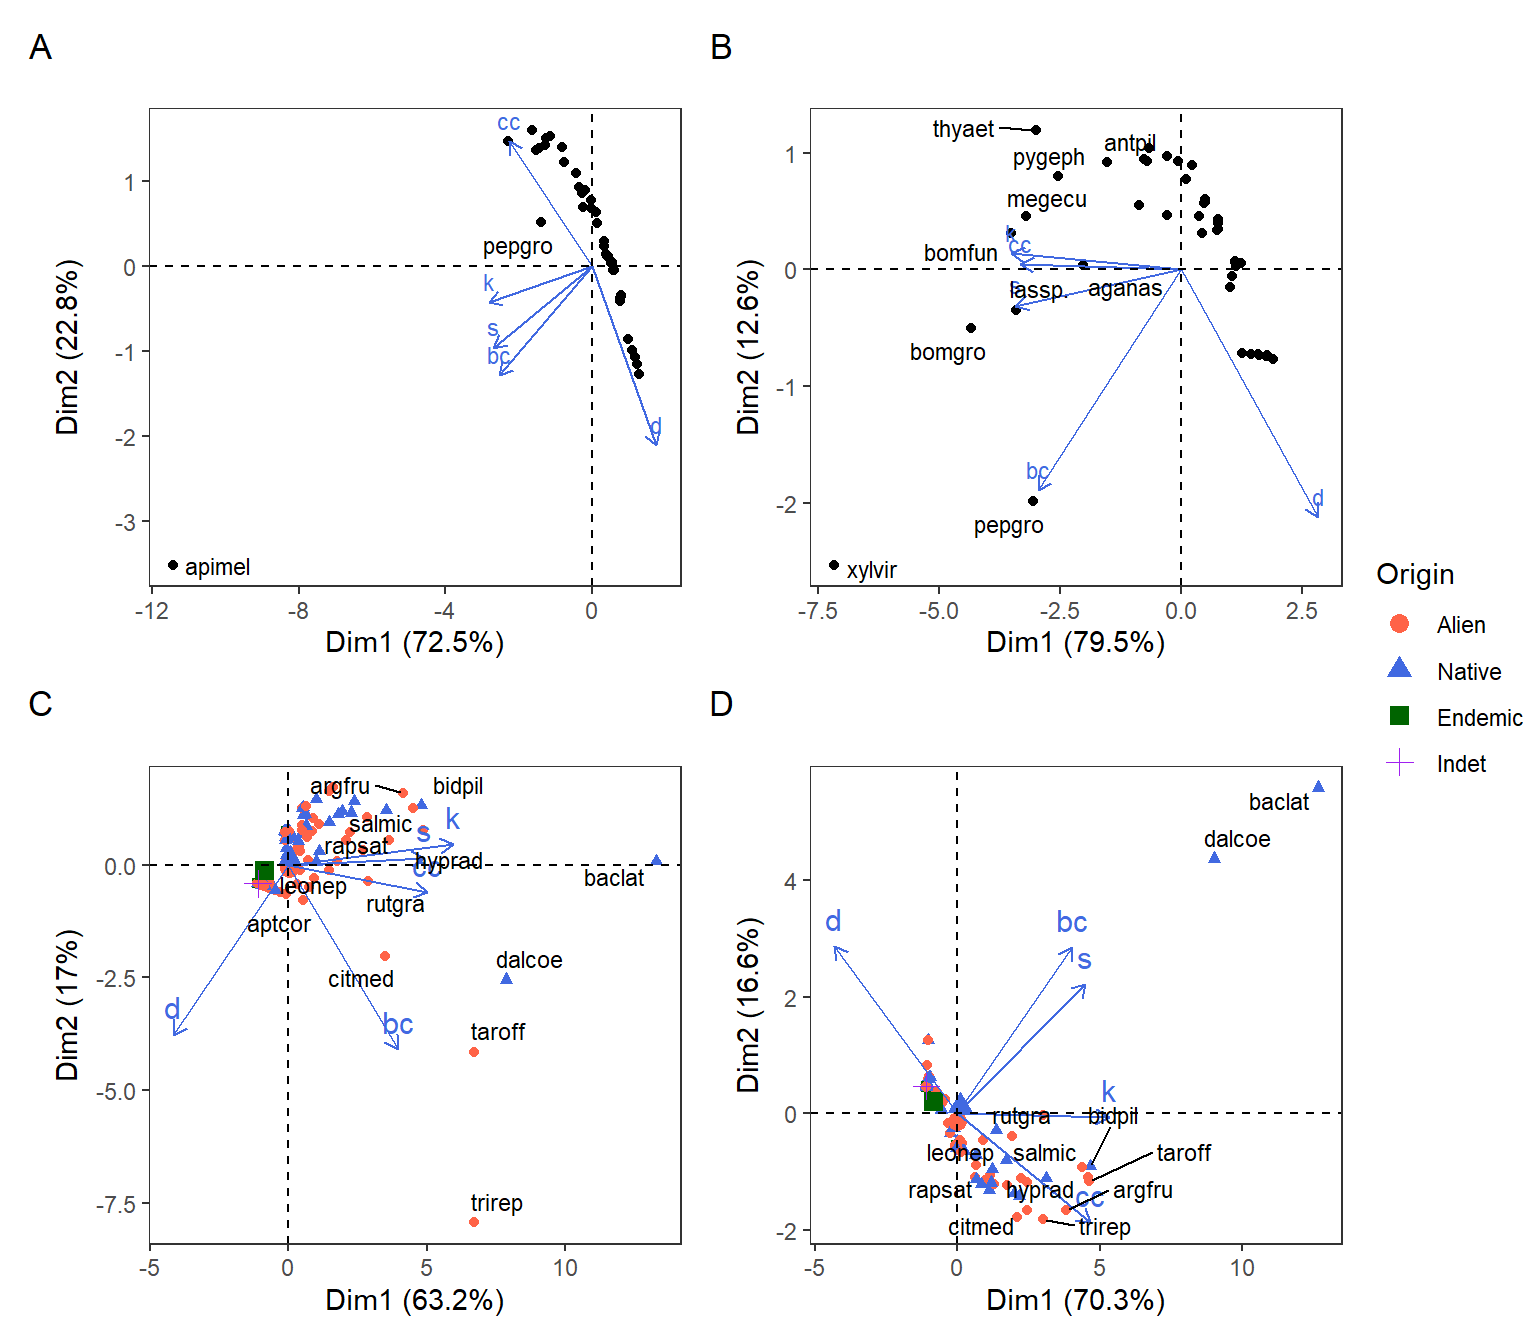
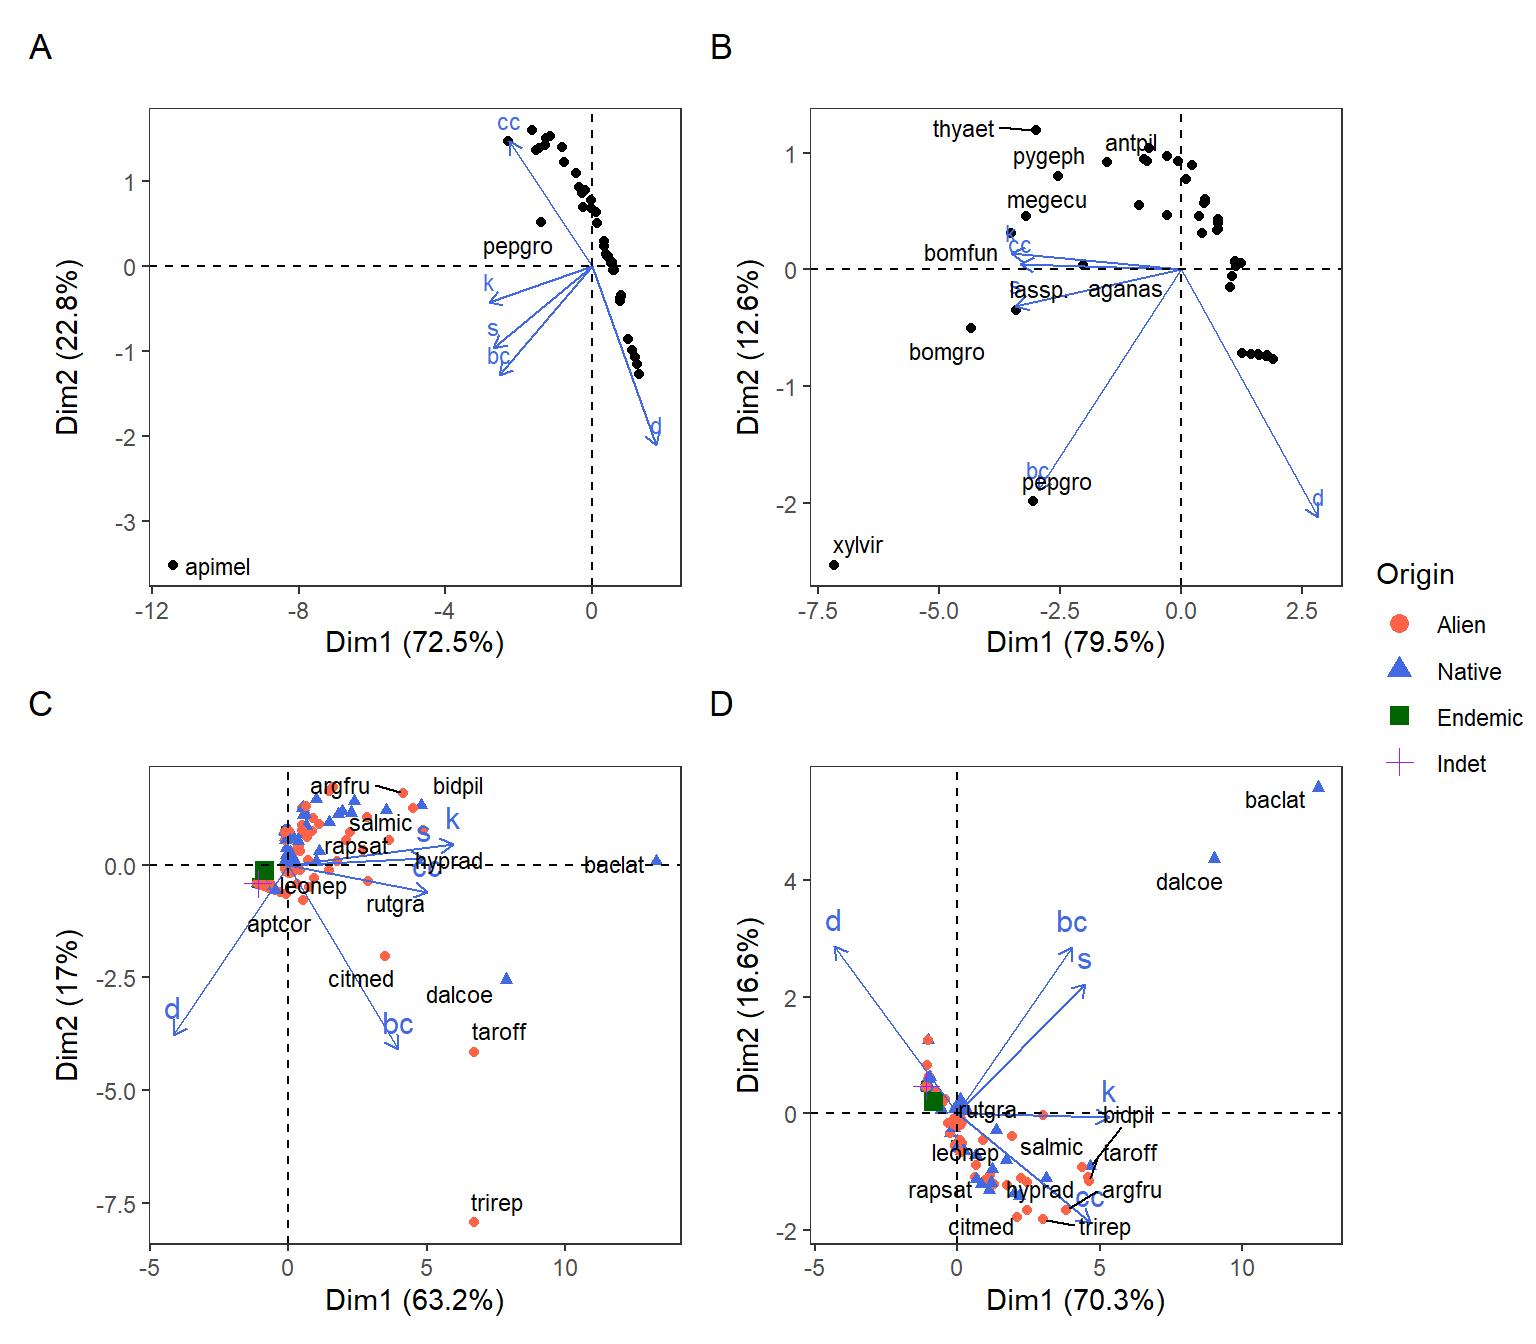
Add files via upload

diff --git a/Code/Pollinators_2026.html b/Code/Pollinators_2026.html
@@ -418,7 +418,7 @@ contains the compiled records of hymenopteran insects and their
 associated plant taxa used in the subsequent community and network
 analyses.</p>
 <div class="sourceCode" id="cb2"><pre class="sourceCode r"><code class="sourceCode r"><span id="cb2-1"><a href="#cb2-1" tabindex="-1"></a><span class="co">#import database</span></span>
-<span id="cb2-2"><a href="#cb2-2" tabindex="-1"></a>master0  <span class="ot">&lt;-</span>  <span class="fu">read_excel</span>(<span class="st">&quot;Datos/Datos Analizados/Rawdata_Hymenoptera.xlsx&quot;</span>)</span></code></pre></div>
+<span id="cb2-2"><a href="#cb2-2" tabindex="-1"></a>master0  <span class="ot">&lt;-</span>  <span class="fu">read_excel</span>(<span class="st">&quot;Datos/Data/Rawdata_Hymenoptera.xlsx&quot;</span>)</span></code></pre></div>
 <p>The interaction dataset used in this analysis was derived from
 participatory science records obtained through the iNaturalist platform.
 Records correspond to observations from the inter-Andean valley of
@@ -451,7 +451,7 @@ unresolved taxa.</p>
 <span id="cb3-10"><a href="#cb3-10" tabindex="-1"></a>m1      <span class="ot">&lt;-</span>  <span class="fu">as.data.frame.matrix</span>(<span class="fu">table</span>(m1<span class="sc">$</span>scientificName, m1<span class="sc">$</span>associatedTaxon))</span>
 <span id="cb3-11"><a href="#cb3-11" tabindex="-1"></a></span>
 <span id="cb3-12"><a href="#cb3-12" tabindex="-1"></a><span class="co">#order of species</span></span>
-<span id="cb3-13"><a href="#cb3-13" tabindex="-1"></a>spp     <span class="ot">&lt;-</span>  <span class="fu">read_excel</span>(<span class="st">&quot;Datos/Datos Analizados/Species Order.xlsx&quot;</span>)</span>
+<span id="cb3-13"><a href="#cb3-13" tabindex="-1"></a>spp     <span class="ot">&lt;-</span>  <span class="fu">read_excel</span>(<span class="st">&quot;Datos/Data/Species Order.xlsx&quot;</span>)</span>
 <span id="cb3-14"><a href="#cb3-14" tabindex="-1"></a>m1      <span class="ot">&lt;-</span>  m1[, <span class="fu">names</span>(spp)]      <span class="co">#set plant species in taxonomic order</span></span>
 <span id="cb3-15"><a href="#cb3-15" tabindex="-1"></a></span>
 <span id="cb3-16"><a href="#cb3-16" tabindex="-1"></a><span class="fu">class</span>(m1)</span></code></pre></div>
@@ -510,9 +510,8 @@ overview of the observed taxa.</p>
 <span id="cb7-19"><a href="#cb7-19" tabindex="-1"></a>                <span class="fu">mutate</span>(<span class="at">Rel_Abund =</span> (Freq <span class="sc">/</span> <span class="fu">sum</span>(Freq)) )  <span class="sc">%&gt;%</span> <span class="fu">arrange</span>(<span class="sc">-</span>Freq)</span></code></pre></div>
 </div>
 </div>
-<div id="network-visualization" class="section level1" number="2">
-<h1><span class="header-section-number">2</span> Network
-Visualization</h1>
+<div id="visualization" class="section level1" number="2">
+<h1><span class="header-section-number">2</span> Visualization</h1>
 <div id="general" class="section level2" number="2.1">
 <h2><span class="header-section-number">2.1</span> General</h2>
 <p>This section visualizes the full species-level insect–plant
@@ -697,8 +696,8 @@ Network</div>
 <div id="statistical-analysis" class="section level1" number="3">
 <h1><span class="header-section-number">3</span> Statistical
 Analysis</h1>
-<div id="network-stats" class="section level2" number="3.1">
-<h2><span class="header-section-number">3.1</span> Network Stats</h2>
+<div id="network-metrics" class="section level2" number="3.1">
+<h2><span class="header-section-number">3.1</span> Network Metrics</h2>
 <p>This section calculates species-level network metrics from the
 insect–plant interaction matrix. The <code>specieslevel()</code>
 function is used to estimate the relative structural importance of each
@@ -1067,8 +1066,8 @@ network and for the network excluding Apis mellifera.</p>
 <span id="cb51-2"><a href="#cb51-2" tabindex="-1"></a><span class="co">#ggsave(&quot;pcas2.png&quot;, width = 8, height = 7, dpi = 400)</span></span>
 <span id="cb51-3"><a href="#cb51-3" tabindex="-1"></a><span class="co">#ggsave(&quot;pcas2.pdf&quot;, width = 8, height = 7, dpi = 400)</span></span></code></pre></div>
 </div>
-<div id="final-tables" class="section level2" number="3.3">
-<h2><span class="header-section-number">3.3</span> Final Tables</h2>
+<div id="summary-tables" class="section level2" number="3.3">
+<h2><span class="header-section-number">3.3</span> Summary Tables</h2>
 <p>Species-level tables for export. Network metrics from the full
 interaction matrix are combined with the metrics recalculated after
 excluding <em>Apis mellifera</em>. This allows each plant and insect
@@ -1089,8 +1088,8 @@ species to be compared under both analytical scenarios.</p>
 <span id="cb52-14"><a href="#cb52-14" tabindex="-1"></a>                                  <span class="at">by =</span> <span class="st">&quot;scientificName&quot;</span>)</span>
 <span id="cb52-15"><a href="#cb52-15" tabindex="-1"></a></span>
 <span id="cb52-16"><a href="#cb52-16" tabindex="-1"></a><span class="co">#export tables</span></span>
-<span id="cb52-17"><a href="#cb52-17" tabindex="-1"></a><span class="co">#write_xlsx(table_plants_final,  &quot;Datos/Datos Analizados/Species_Plants.xlsx&quot;)</span></span>
-<span id="cb52-18"><a href="#cb52-18" tabindex="-1"></a><span class="co">#write_xlsx(table_insects_final, &quot;Datos/Datos Analizados/Species_Insects.xlsx&quot;)</span></span></code></pre></div>
+<span id="cb52-17"><a href="#cb52-17" tabindex="-1"></a><span class="co">#write_xlsx(table_plants_final,  &quot;Datos/Results/Species_Plants.xlsx&quot;)</span></span>
+<span id="cb52-18"><a href="#cb52-18" tabindex="-1"></a><span class="co">#write_xlsx(table_insects_final, &quot;Datos/Results/Species_Insects.xlsx&quot;)</span></span></code></pre></div>
 <div class="float">
 <img src="../Images/Agapostemon.jpeg" alt="Agapostemon sp." />
 <div class="figcaption">Agapostemon sp.</div>